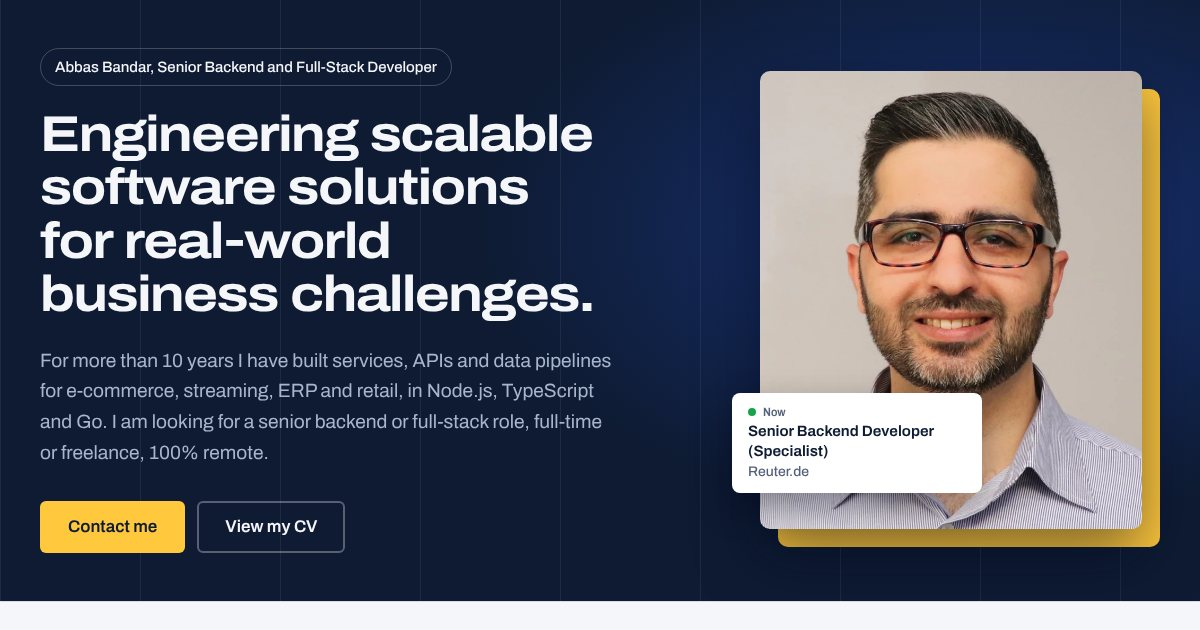
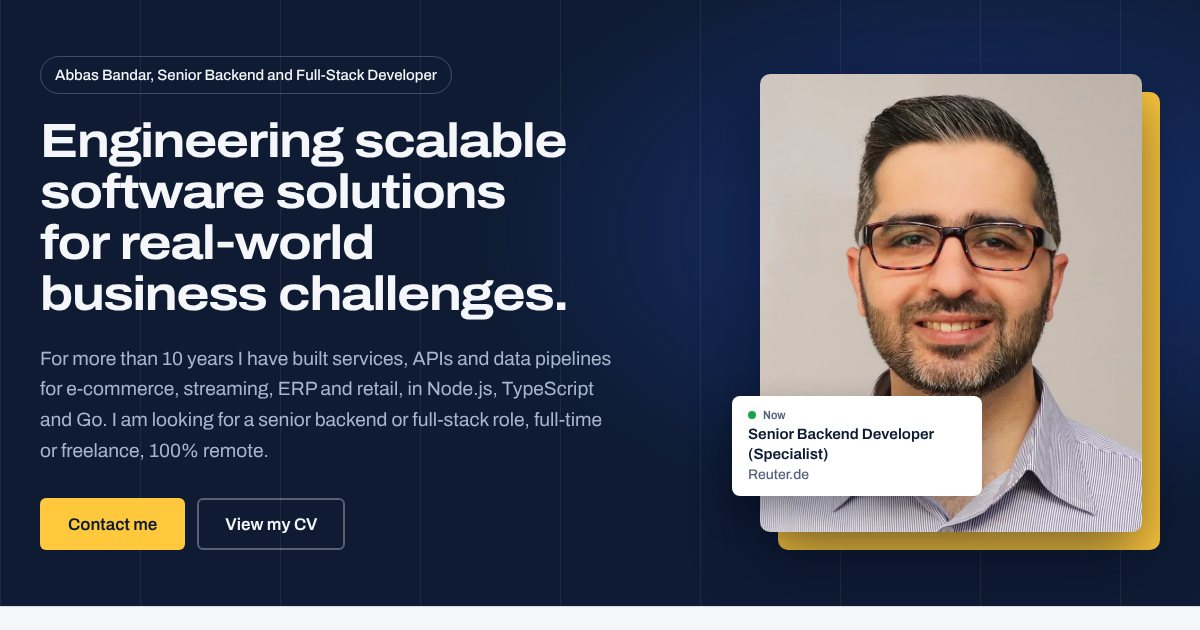
Make the hero headline smaller and fix German line breaks
The longer headline is set smaller, and the long German compound
words carry soft hyphens so they break cleanly when they have to.

Claude-Session: https://claude.ai/code/session_012zLnr98GBUEWio7JcucpK9

diff --git a/src/data/content.de.ts b/src/data/content.de.ts
@@ -16,7 +16,8 @@ export const de: SiteContent = {
   profile: {
     ...contact,
     jobTitle: "Senior Backend- und Full-Stack-Entwickler",
-    headline: "Skalierbare Softwarelösungen für reale Geschäftsanforderungen.",
+    headline:
+      "Skalierbare Software\u00ADlösungen für reale Geschäfts\u00ADanforderungen.",
     intro:
       "Seit mehr als 10 Jahren entwickle ich Services, APIs und Datenpipelines für E-Commerce, Streaming, ERP und Handel, mit Node.js, TypeScript und Go. Ich suche eine Senior-Position im Backend oder Full-Stack, in Festanstellung oder freiberuflich, zu 100 % remote.",
     location: "Mönchengladbach, Deutschland",

diff --git a/src/components/Hero.css b/src/components/Hero.css
@@ -49,9 +49,9 @@
 }
 
 .hero__headline {
-  max-width: 22ch;
+  max-width: 24ch;
   margin-top: 22px;
-  font-size: clamp(1.875rem, 4.2vw, 3.25rem);
+  font-size: clamp(1.75rem, 3.6vw, 2.75rem);
   overflow-wrap: break-word;
   font-weight: 700;
   font-stretch: 116%;
